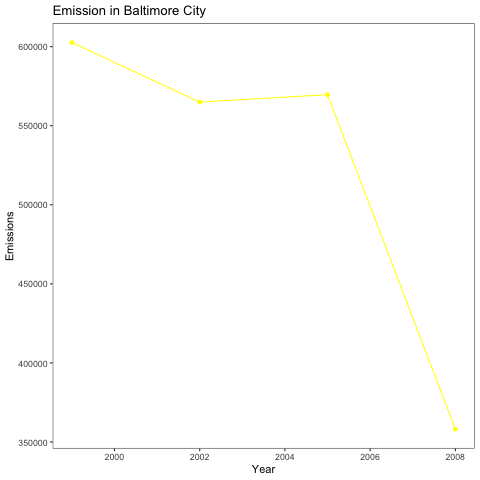
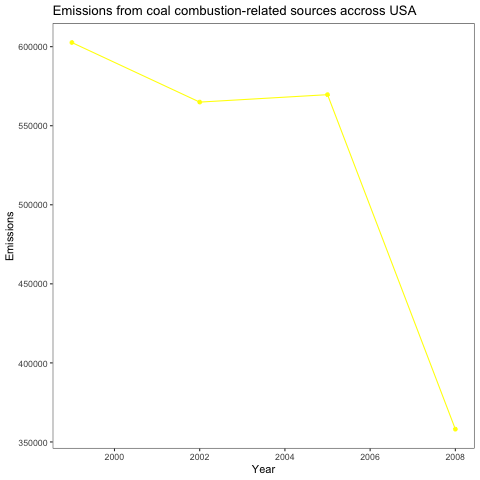
V 1.0 - 27/06/2020

Changed region(s): [[0.2188, 0.0, 0.875, 0.0312]]

diff --git a/README.md b/README.md
@@ -144,7 +144,7 @@ You must address the following questions and tasks in your exploratory analysis.
     # Define device, set characteristics and plot
     png("plot4.png")
     
-    ggplot(data = NEI.SCC.Coal.by.Year, aes(x = year, y = Emmisions)) + xlab("Year") + geom_point(col = "yellow") + ylab("Emissions") + geom_line(color = "yellow") + theme_bw() +theme(panel.grid.major = element_blank(), panel.grid.minor = element_blank()) + ggtitle("Emission in Baltimore City")
+    ggplot(data = NEI.SCC.Coal.by.Year, aes(x = year, y = Emmisions)) + xlab("Year") + geom_point(col = "yellow") + ylab("Emissions") + geom_line(color = "yellow") + theme_bw() +theme(panel.grid.major = element_blank(), panel.grid.minor = element_blank()) + ggtitle("Emissions from coal combustion-related sources accross USA")
     
     # set the device off and back to the default screen device
     dev.off()
